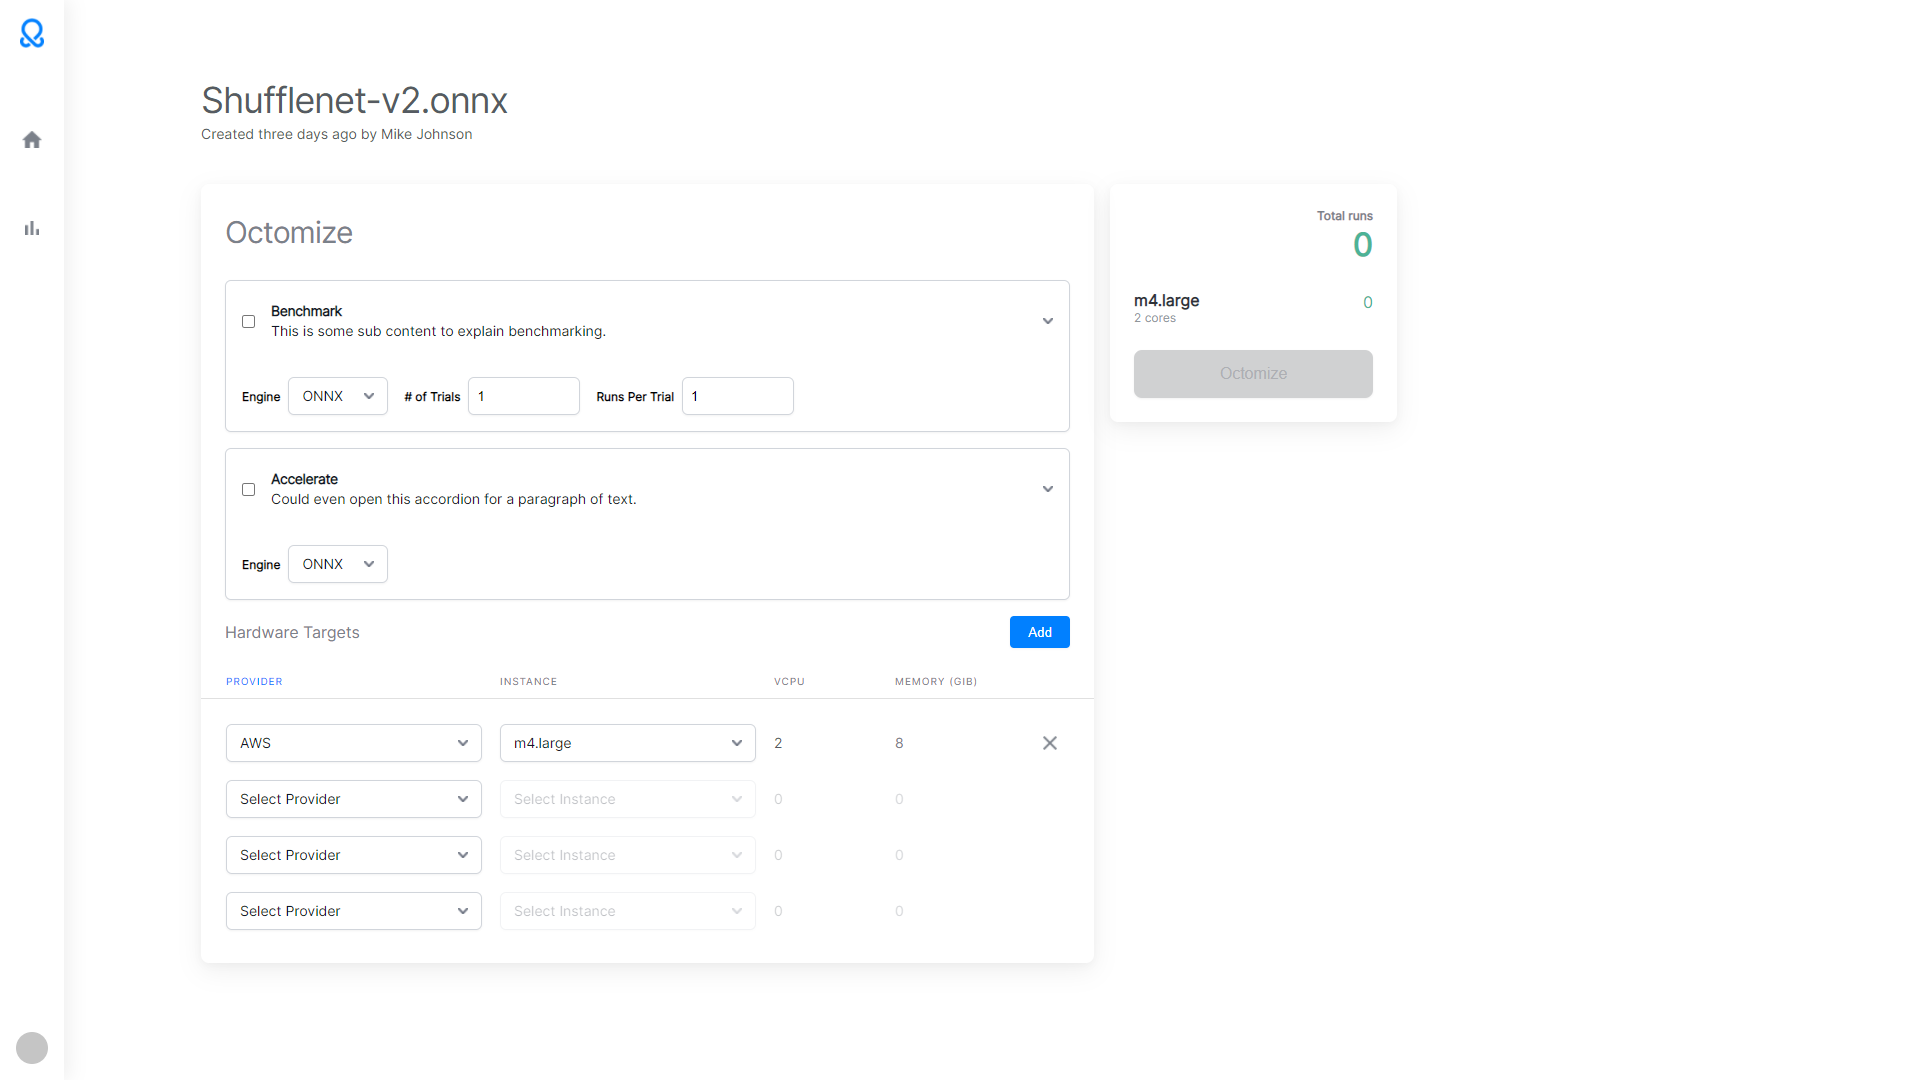
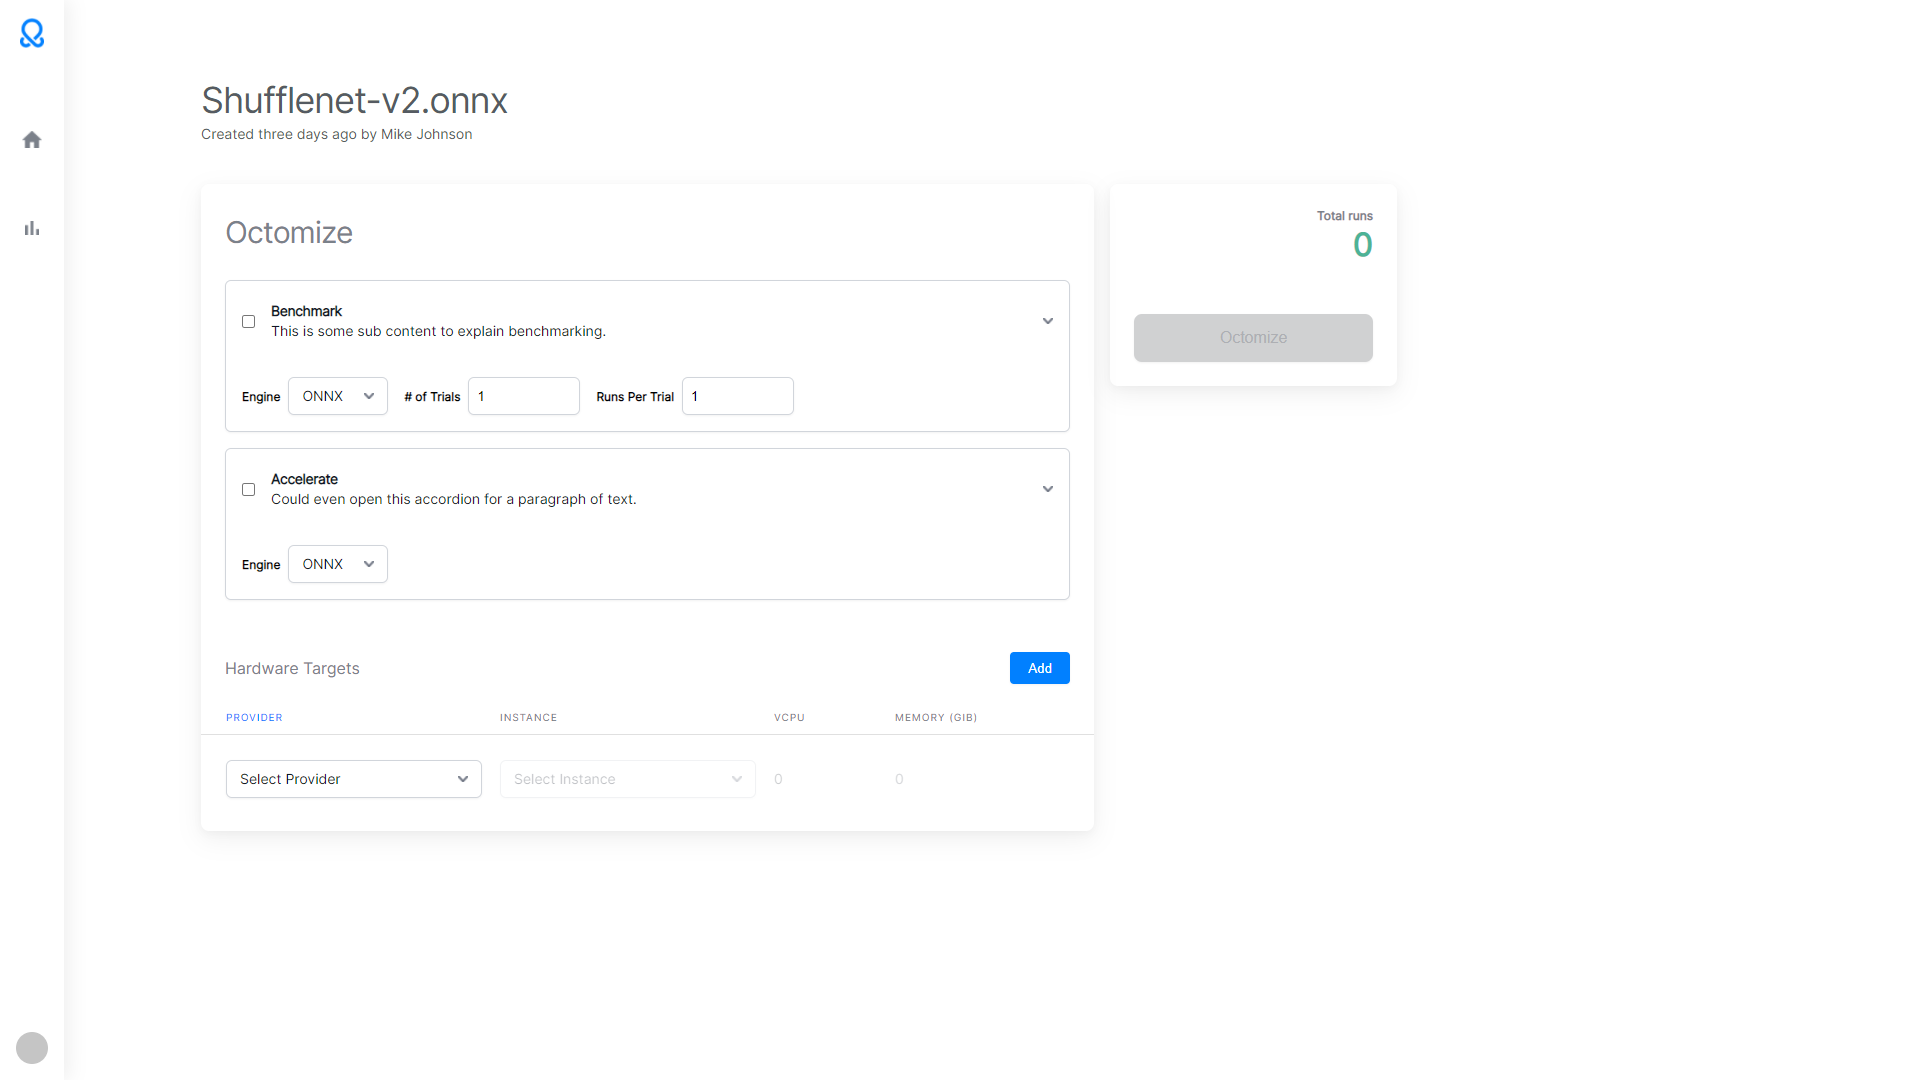
updated images and also fixed one last margin
no more updates promise

diff --git a/assets/styles.css b/assets/styles.css
@@ -23,10 +23,12 @@ body {
   padding: 0;
   height: 100vh;
 }
+
 #app {
   height: 100%;
   display: flex;
   flex-direction: row;
+  overflow-y: auto;
 }
 
 .sidebar {
@@ -39,7 +41,6 @@ body {
   width: 64px;
   padding-top: 18px;
   background-color: white;
-  margin-right: calc(201px - 64px);
   box-shadow: 6px 0px 18px rgba(0, 0, 0, 0.06);
 }
 
@@ -72,6 +73,7 @@ body {
 }
 
 .content {
+  margin-left: calc(201px - 64px);
 }
 
 #title {
@@ -117,6 +119,7 @@ body {
 
   box-shadow: 0px 2px 8px rgba(46, 50, 56, 0.04), 0px 8px 24px rgba(46, 50, 56, 0.08);
   border-radius: 8px;
+  margin-bottom: 64px;
 }
 
 .main-form #hardware-targets-header {
@@ -124,6 +127,7 @@ body {
   display: flex;
   flex-direction: row;
   align-items: center;
+  margin-top: calc(68px - 16px);
   margin-bottom: 16px;
 }
 

diff --git a/README.md b/README.md
@@ -4,12 +4,17 @@
 
 # Screenshots
 
-![Alt text](docs/images/0.png?raw=true "Title")
-![Alt text](docs/images/0.png?raw=true "Title")
-![Alt text](docs/images/0.png?raw=true "Title")
-![Alt text](docs/images/0.png?raw=true "Title")
-![Alt text](docs/images/0.png?raw=true "Title")
-![Alt text](docs/images/0.png?raw=true "Title")
+![](docs/images/0.png?raw=true "Title")
+![](docs/images/1.png?raw=true "Title")
+![](docs/images/2.png?raw=true "Title")
+![](docs/images/3.png?raw=true "Title")
+![](docs/images/4.png?raw=true "Title")
+![](docs/images/5.png?raw=true "Title")
+![](docs/images/6.png?raw=true "Title")
+![](docs/images/7.png?raw=true "Title")
+![](docs/images/8.png?raw=true "Title")
+![](docs/images/9.png?raw=true "Title")
+![](docs/images/10.png?raw=true "Title")
 
 # Afterword
 
